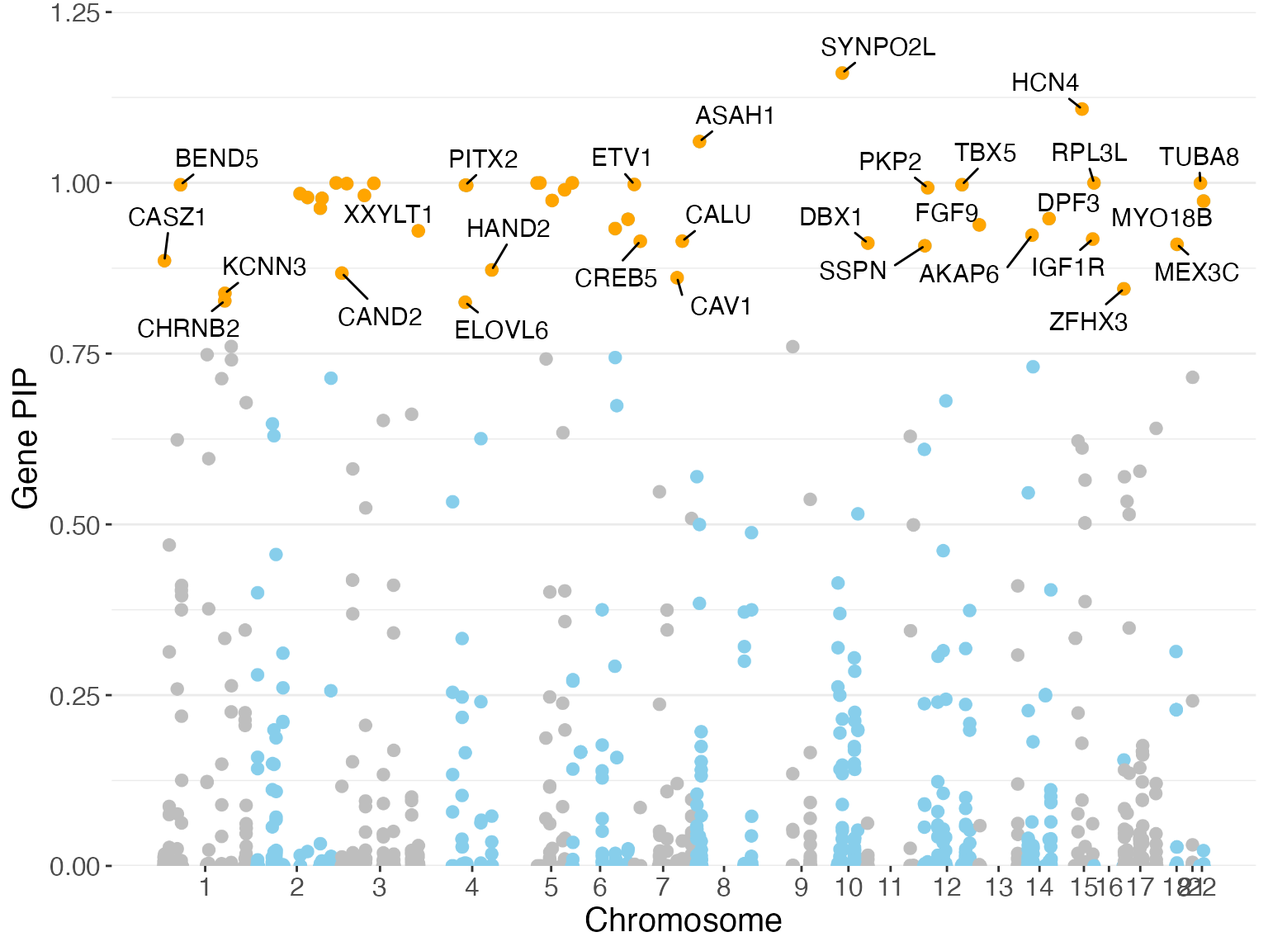
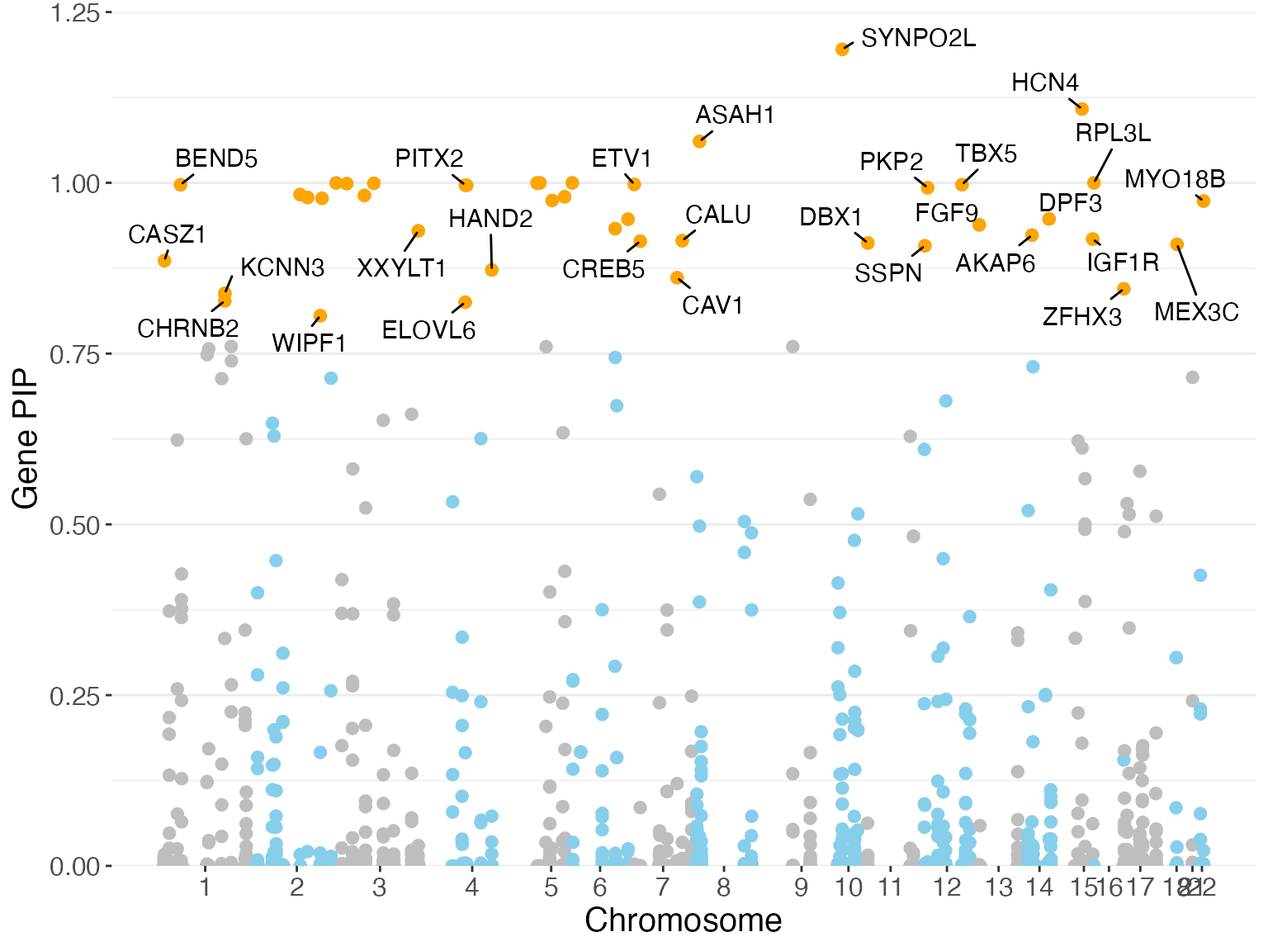
updated website

diff --git a/docs/articles/gene_mapping_tutorial.html b/docs/articles/gene_mapping_tutorial.html
@@ -33,7 +33,7 @@
       </button>
       <span class="navbar-brand">
         <a class="navbar-link" href="../index.html">mapgen</a>
-        <span class="version label label-default" data-toggle="tooltip" data-placement="bottom" title="">0.3.8</span>
+        <span class="version label label-default" data-toggle="tooltip" data-placement="bottom" title="">0.3.9</span>
       </span>
     </div>
 
@@ -155,44 +155,33 @@ Schematic of gene-level PIP calculation. s: SNP, g: gene
 <div class="sourceCode" id="cb6"><pre class="downlit sourceCode r">
 <code class="sourceCode R"><span class="va">genomic.annots</span> <span class="op">&lt;-</span> <span class="fu"><a href="https://rdrr.io/r/base/readRDS.html" class="external-link">readRDS</a></span><span class="op">(</span><span class="fu"><a href="https://rdrr.io/r/base/system.file.html" class="external-link">system.file</a></span><span class="op">(</span><span class="st">"extdata"</span>, <span class="st">"genomic.annots.hg19.gr.rds"</span>, package <span class="op">=</span> <span class="st">"mapgen"</span><span class="op">)</span><span class="op">)</span>
 <span class="va">gene.annots</span> <span class="op">&lt;-</span> <span class="va">genomic.annots</span><span class="op">$</span><span class="va">genes</span></code></pre></div>
-<p>Add Promoter-capture HiC (PCHi-C) data from iPSC derived cardiomyocytes (CMs). You can use your own pcHiC data, or skip this if you do not have relevant PCHi-C data.</p>
+<p>Load OCRs</p>
 <div class="sourceCode" id="cb7"><pre class="downlit sourceCode r">
-<code class="sourceCode R"><span class="va">genomic.annots</span><span class="op">$</span><span class="va">pcHiC</span> <span class="op">&lt;-</span> <span class="fu"><a href="https://rdrr.io/r/base/readRDS.html" class="external-link">readRDS</a></span><span class="op">(</span><span class="fu"><a href="https://rdrr.io/r/base/system.file.html" class="external-link">system.file</a></span><span class="op">(</span><span class="st">"extdata"</span>, <span class="st">"pcHiC.CM.gr.rds"</span>, package <span class="op">=</span> <span class="st">"mapgen"</span><span class="op">)</span><span class="op">)</span></code></pre></div>
-<p>Add ABC scores from heart ventricle (from Nasser <em>et al.</em> <em>Nature</em> 2021). You may skip this if you do not have relevant ABC scores.</p>
+<code class="sourceCode R"><span class="va">genomic.annots</span><span class="op">$</span><span class="va">OCRs_hg19</span> <span class="op">&lt;-</span> <span class="fu"><a href="https://rdrr.io/r/base/readRDS.html" class="external-link">readRDS</a></span><span class="op">(</span><span class="fu"><a href="https://rdrr.io/r/base/system.file.html" class="external-link">system.file</a></span><span class="op">(</span><span class="st">"extdata"</span>, <span class="st">"OCRs.hg19.gr.rds"</span>, package <span class="op">=</span> <span class="st">"mapgen"</span><span class="op">)</span><span class="op">)</span></code></pre></div>
+<p>Define active promoters using OCRs.</p>
 <div class="sourceCode" id="cb8"><pre class="downlit sourceCode r">
+<code class="sourceCode R"><span class="va">genomic.annots</span><span class="op">$</span><span class="va">active_promoters</span> <span class="op">&lt;-</span> <span class="fu">IRanges</span><span class="fu">::</span><span class="fu"><a href="https://rdrr.io/pkg/IRanges/man/findOverlaps-methods.html" class="external-link">subsetByOverlaps</a></span><span class="op">(</span><span class="va">genomic.annots</span><span class="op">$</span><span class="va">promoters</span>, <span class="va">genomic.annots</span><span class="op">$</span><span class="va">OCRs_hg19</span>, minoverlap <span class="op">=</span> <span class="fl">100</span><span class="op">)</span></code></pre></div>
+<p>Define enhancer loops:</p>
+<p>Add Promoter-capture HiC (PCHi-C) data from iPSC derived cardiomyocytes (CMs).</p>
+<div class="sourceCode" id="cb9"><pre class="downlit sourceCode r">
+<code class="sourceCode R"><span class="va">genomic.annots</span><span class="op">$</span><span class="va">pcHiC</span> <span class="op">&lt;-</span> <span class="fu"><a href="https://rdrr.io/r/base/readRDS.html" class="external-link">readRDS</a></span><span class="op">(</span><span class="fu"><a href="https://rdrr.io/r/base/system.file.html" class="external-link">system.file</a></span><span class="op">(</span><span class="st">"extdata"</span>, <span class="st">"pcHiC.CM.gr.rds"</span>, package <span class="op">=</span> <span class="st">"mapgen"</span><span class="op">)</span><span class="op">)</span></code></pre></div>
+<p>You can use your own pcHiC data as follows, or skip this if you do not have relevant PCHi-C data.</p>
+<div class="sourceCode" id="cb10"><pre class="downlit sourceCode r">
+<code class="sourceCode R"><span class="va">evapcHiC</span> <span class="op">&lt;-</span> <span class="fu">data.table</span><span class="fu">::</span><span class="fu"><a href="https://Rdatatable.gitlab.io/data.table/reference/fread.html" class="external-link">fread</a></span><span class="op">(</span><span class="va">pcHiC.file</span><span class="op">)</span>
+<span class="va">pcHiC.gr</span> <span class="op">&lt;-</span> <span class="fu"><a href="../reference/process_pcHiC.html">process_pcHiC</a></span><span class="op">(</span><span class="va">pcHiC</span><span class="op">)</span>
+<span class="va">pcHiC.gr</span> <span class="op">&lt;-</span> <span class="va">pcHiC.gr</span><span class="op">[</span><span class="va">pcHiC.gr</span><span class="op">$</span><span class="va">gene_name</span> <span class="op"><a href="https://rdrr.io/pkg/BiocGenerics/man/match.html" class="external-link">%in%</a></span> <span class="va">gene.annots</span><span class="op">$</span><span class="va">gene_name</span>,<span class="op">]</span> <span class="co"># restrict to protein coding genes</span>
+<span class="va">genomic.annots</span><span class="op">$</span><span class="va">pcHiC</span> <span class="op">&lt;-</span> <span class="va">pcHiC.gr</span></code></pre></div>
+<p>Add ABC scores from heart ventricle (from Nasser <em>et al.</em> <em>Nature</em> 2021). You may skip this if you do not have relevant ABC scores.</p>
+<div class="sourceCode" id="cb11"><pre class="downlit sourceCode r">
 <code class="sourceCode R"><span class="va">ABC</span> <span class="op">&lt;-</span> <span class="fu">data.table</span><span class="fu">::</span><span class="fu"><a href="https://Rdatatable.gitlab.io/data.table/reference/fread.html" class="external-link">fread</a></span><span class="op">(</span><span class="fu"><a href="https://rdrr.io/r/base/system.file.html" class="external-link">system.file</a></span><span class="op">(</span><span class="st">"extdata"</span>, <span class="st">"heart_ventricle-ENCODE_ABC.tsv.gz"</span>, package <span class="op">=</span> <span class="st">"mapgen"</span><span class="op">)</span><span class="op">)</span>
 <span class="va">ABC.gr</span> <span class="op">&lt;-</span> <span class="fu"><a href="../reference/process_ABC.html">process_ABC</a></span><span class="op">(</span><span class="va">ABC</span>, ABC.thresh <span class="op">=</span> <span class="fl">0.015</span>, full.element <span class="op">=</span> <span class="cn">TRUE</span><span class="op">)</span>
 <span class="va">ABC.gr</span> <span class="op">&lt;-</span> <span class="va">ABC.gr</span><span class="op">[</span><span class="va">ABC.gr</span><span class="op">$</span><span class="va">gene_name</span> <span class="op"><a href="https://rdrr.io/pkg/BiocGenerics/man/match.html" class="external-link">%in%</a></span> <span class="va">gene.annots</span><span class="op">$</span><span class="va">gene_name</span>, <span class="op">]</span> <span class="co"># restrict to protein coding genes</span>
 <span class="va">genomic.annots</span><span class="op">$</span><span class="va">ABC</span> <span class="op">&lt;-</span> <span class="va">ABC.gr</span></code></pre></div>
-<p>Define active promoters using OCRs.</p>
-<div class="sourceCode" id="cb9"><pre class="downlit sourceCode r">
-<code class="sourceCode R"><span class="va">genomic.annots</span><span class="op">$</span><span class="va">OCRs_hg19</span> <span class="op">&lt;-</span> <span class="fu"><a href="https://rdrr.io/r/base/readRDS.html" class="external-link">readRDS</a></span><span class="op">(</span><span class="fu"><a href="https://rdrr.io/r/base/system.file.html" class="external-link">system.file</a></span><span class="op">(</span><span class="st">"extdata"</span>, <span class="st">"OCRs.hg19.gr.rds"</span>, package <span class="op">=</span> <span class="st">"mapgen"</span><span class="op">)</span><span class="op">)</span>
-<span class="va">genomic.annots</span><span class="op">$</span><span class="va">active_promoters</span> <span class="op">&lt;-</span> <span class="fu">IRanges</span><span class="fu">::</span><span class="fu"><a href="https://rdrr.io/pkg/IRanges/man/findOverlaps-methods.html" class="external-link">subsetByOverlaps</a></span><span class="op">(</span><span class="va">genomic.annots</span><span class="op">$</span><span class="va">promoters</span>, <span class="va">genomic.annots</span><span class="op">$</span><span class="va">OCRs_hg19</span>, minoverlap <span class="op">=</span> <span class="fl">100</span><span class="op">)</span></code></pre></div>
-<p>Define enhancer loops:</p>
-<p>We used “enhancer loops” from Activity-By-Contact (ABC) scores and promoter-capture HiC data (PC-HiC).</p>
-<p>Considering the fact that Hi-C and PC-HiC may miss contacts between close regions due to technical reasons, we also consider the OCRs within 20 kb of active promoters as “enhancer loops”.</p>
-<div class="sourceCode" id="cb10"><pre class="downlit sourceCode r">
-<code class="sourceCode R"><span class="va">genomic.annots</span><span class="op">$</span><span class="va">enhancer_nearby_promoter_20kb</span> <span class="op">&lt;-</span> <span class="fu"><a href="https://rdrr.io/r/base/readRDS.html" class="external-link">readRDS</a></span><span class="op">(</span><span class="fu"><a href="https://rdrr.io/r/base/system.file.html" class="external-link">system.file</a></span><span class="op">(</span><span class="st">"extdata"</span>, <span class="st">"enhancer.nearby.promoter.20kb.gr.rds"</span>, package <span class="op">=</span> <span class="st">"mapgen"</span><span class="op">)</span><span class="op">)</span></code></pre></div>
-<p>Define enhancer regions by OCRs (you may skip this if you do not have relevant enhancer data)</p>
-<div class="sourceCode" id="cb11"><pre class="downlit sourceCode r">
-<code class="sourceCode R"><span class="va">genomic.annots</span><span class="op">$</span><span class="va">enhancer_regions</span> <span class="op">&lt;-</span> <span class="va">genomic.annots</span><span class="op">$</span><span class="va">OCRs_hg19</span></code></pre></div>
-<p>Let’s look at all the annotation categories we included here:</p>
+<p>Considering the fact that Hi-C and PC-HiC may miss contacts between close regions due to technical reasons, we also consider enhancer regions (the OCRs in this case) within 20 kb of active promoters as “enhancer loops”.</p>
 <div class="sourceCode" id="cb12"><pre class="downlit sourceCode r">
-<code class="sourceCode R"><span class="fu"><a href="https://rdrr.io/r/base/summary.html" class="external-link">summary</a></span><span class="op">(</span><span class="va">genomic.annots</span><span class="op">)</span></code></pre></div>
-<pre><code><span class="co">##                               Length Class   Mode</span>
-<span class="co">## exons                         195913 GRanges S4  </span>
-<span class="co">## introns                       189762 GRanges S4  </span>
-<span class="co">## UTRs                           50889 GRanges S4  </span>
-<span class="co">## promoters                      19430 GRanges S4  </span>
-<span class="co">## splice_junctions              391826 GRanges S4  </span>
-<span class="co">## HiC                           377504 GRanges S4  </span>
-<span class="co">## genes                          19430 GRanges S4  </span>
-<span class="co">## pcHiC                         377504 GRanges S4  </span>
-<span class="co">## ABC                            48102 GRanges S4  </span>
-<span class="co">## OCRs_hg19                     353731 GRanges S4  </span>
-<span class="co">## active_promoters               14029 GRanges S4  </span>
-<span class="co">## enhancer_nearby_promoter_20kb 124947 GRanges S4  </span>
-<span class="co">## enhancer_regions              353731 GRanges S4</span></code></pre>
+<code class="sourceCode R"><span class="va">genomic.annots</span><span class="op">$</span><span class="va">enhancer_regions</span> <span class="op">&lt;-</span> <span class="va">genomic.annots</span><span class="op">$</span><span class="va">OCRs_hg19</span><span class="op">[</span><span class="va">genomic.annots</span><span class="op">$</span><span class="va">OCRs_hg19</span><span class="op">$</span><span class="va">peakType</span><span class="op">!=</span><span class="st">"Promoter"</span>,<span class="op">]</span></code></pre></div>
+<div class="sourceCode" id="cb13"><pre class="downlit sourceCode r">
+<code class="sourceCode R"><span class="va">enhancer_nearby_promoter_20kb</span> <span class="op">&lt;-</span> <span class="fu"><a href="../reference/nearby_interactions.html">nearby_interactions</a></span><span class="op">(</span><span class="va">genomic.annots</span><span class="op">$</span><span class="va">enhancer_regions</span>, <span class="va">genomic.annots</span><span class="op">$</span><span class="va">active_promoters</span>, dist_limit <span class="op">=</span> <span class="fl">20000</span><span class="op">)</span></code></pre></div>
 </div>
 <div class="section level2">
 <h2 id="run-gene-mapping">Run gene mapping<a class="anchor" aria-label="anchor" href="#run-gene-mapping"></a>
@@ -228,13 +217,13 @@ Schematic of gene-level PIP calculation. s: SNP, g: gene
 <span class="co">## 4 rs4845618   1 154400015 1.149990e-05 10.16240 -6.537313  0    77      IL6R</span>
 <span class="co">## 5 rs6687726   1 154400320 1.392576e-05 10.29390 -6.567164  0    77      IL6R</span>
 <span class="co">## 6 rs2793374   1 205647508 1.950893e-04  4.70421  4.268657  0   106   SLC45A3</span>
-<span class="co">##         category weight  frac_pip     gene_pip</span>
-<span class="co">## 1 ABC,nearby20kb      1 0.3333333 4.697451e-01</span>
-<span class="co">## 2            ABC      1 0.3333333 2.130613e-02</span>
-<span class="co">## 3            ABC      1 1.0000000 7.609475e-02</span>
-<span class="co">## 4            ABC      1 1.0000000 3.297559e-05</span>
-<span class="co">## 5            ABC      1 0.5000000 3.297559e-05</span>
-<span class="co">## 6            ABC      1 1.0000000 4.722192e-02</span></code></pre>
+<span class="co">##   category weight  frac_pip     gene_pip</span>
+<span class="co">## 1      ABC      1 0.3333333 3.731341e-01</span>
+<span class="co">## 2      ABC      1 0.3333333 2.591496e-02</span>
+<span class="co">## 3      ABC      1 1.0000000 7.609949e-02</span>
+<span class="co">## 4      ABC      1 1.0000000 3.297559e-05</span>
+<span class="co">## 5      ABC      1 0.5000000 3.297559e-05</span>
+<span class="co">## 6      ABC      1 1.0000000 4.721804e-02</span></code></pre>
 <p>Extract gene-level result table</p>
 <div class="sourceCode" id="cb18"><pre class="downlit sourceCode r">
 <code class="sourceCode R"><span class="va">gene.pip.res</span> <span class="op">&lt;-</span> <span class="fu"><a href="../reference/extract_gene_level_result.html">extract_gene_level_result</a></span><span class="op">(</span><span class="va">gene.mapping.res</span>, <span class="va">gene.annots</span><span class="op">)</span></code></pre></div>
@@ -242,12 +231,12 @@ Schematic of gene-level PIP calculation. s: SNP, g: gene
 <div class="sourceCode" id="cb20"><pre class="downlit sourceCode r">
 <code class="sourceCode R"><span class="fu"><a href="https://rdrr.io/pkg/S4Vectors/man/Vector-class.html" class="external-link">head</a></span><span class="op">(</span><span class="va">gene.pip.res</span><span class="op">)</span></code></pre></div>
 <pre><code><span class="co">##    chr       pos gene_name     gene_pip</span>
-<span class="co">## 1 chr1  22263790     HSPG2 4.697451e-01</span>
-<span class="co">## 2 chr1  22110099     USP48 2.130613e-02</span>
-<span class="co">## 3 chr1  41707826     SCMH1 7.609475e-02</span>
+<span class="co">## 1 chr1  22263790     HSPG2 3.731341e-01</span>
+<span class="co">## 2 chr1  22110099     USP48 2.591496e-02</span>
+<span class="co">## 3 chr1  41707826     SCMH1 7.609949e-02</span>
 <span class="co">## 4 chr1 154377669      IL6R 3.297559e-05</span>
-<span class="co">## 5 chr1 205649587   SLC45A3 4.722192e-02</span>
-<span class="co">## 6 chr1 205719404    NUCKS1 6.782052e-01</span></code></pre>
+<span class="co">## 5 chr1 205649587   SLC45A3 4.721804e-02</span>
+<span class="co">## 6 chr1 205719404    NUCKS1 6.253132e-01</span></code></pre>
 <p>Obtain 80% credible gene sets</p>
 <div class="sourceCode" id="cb22"><pre class="downlit sourceCode r">
 <code class="sourceCode R"><span class="va">gene.cs.df</span> <span class="op">&lt;-</span> <span class="fu"><a href="../reference/gene_cs.html">gene_cs</a></span><span class="op">(</span><span class="va">gene.mapping.res</span>, by.locus <span class="op">=</span> <span class="cn">TRUE</span>, gene.cs.percent.thresh <span class="op">=</span> <span class="fl">0.8</span><span class="op">)</span>
@@ -256,11 +245,11 @@ Schematic of gene-level PIP calculation. s: SNP, g: gene
 <span class="co">##   locus gene_cs          gene_cs_locus_p… top_gene top_locus_gene_… top_gene_pip</span>
 <span class="co">##   <span style="color: #949494; font-style: italic;">&lt;dbl&gt;</span> <span style="color: #949494; font-style: italic;">&lt;chr&gt;</span>            <span style="color: #949494; font-style: italic;">&lt;chr&gt;</span>            <span style="color: #949494; font-style: italic;">&lt;chr&gt;</span>               <span style="color: #949494; font-style: italic;">&lt;dbl&gt;</span>        <span style="color: #949494; font-style: italic;">&lt;dbl&gt;</span></span>
 <span class="co">## <span style="color: #BCBCBC;">1</span>     7 CASZ1            CASZ1(0.886)     CASZ1               0.886        0.886</span>
-<span class="co">## <span style="color: #BCBCBC;">2</span>    15 HSPG2,CELA3B,LD… HSPG2(0.47),CEL… HSPG2               0.470        0.470</span>
+<span class="co">## <span style="color: #BCBCBC;">2</span>    15 HSPG2,CELA3B,LD… HSPG2(0.373),CE… HSPG2               0.373        0.373</span>
 <span class="co">## <span style="color: #BCBCBC;">3</span>    25 SLFNL1,CTPS1     SLFNL1(0.624),C… SLFNL1              0.624        0.624</span>
 <span class="co">## <span style="color: #BCBCBC;">4</span>    31 BEND5            BEND5(0.997)     BEND5               0.997        0.997</span>
-<span class="co">## <span style="color: #BCBCBC;">5</span>    32 FAF1,CDKN2C,C1o… FAF1(0.382),CDK… FAF1                0.382        0.403</span>
-<span class="co">## <span style="color: #BCBCBC;">6</span>    33 TTC39A,EPS15     TTC39A(0.409),E… TTC39A              0.409        0.411</span></code></pre>
+<span class="co">## <span style="color: #BCBCBC;">5</span>    32 FAF1,CDKN2C,C1o… FAF1(0.368),CDK… FAF1                0.368        0.390</span>
+<span class="co">## <span style="color: #BCBCBC;">6</span>    33 TTC39A,EPS15     TTC39A(0.425),E… TTC39A              0.425        0.427</span></code></pre>
 <p>Find the nearest gene for the top SNP in each locus</p>
 <div class="sourceCode" id="cb24"><pre class="downlit sourceCode r">
 <code class="sourceCode R"><span class="va">finemapstats.gr</span> <span class="op">&lt;-</span> <span class="va">finemapstats.gr</span><span class="op">[</span><span class="fu"><a href="https://Rdatatable.gitlab.io/data.table/reference/setorder.html" class="external-link">order</a></span><span class="op">(</span><span class="fu"><a href="https://rdrr.io/r/base/MathFun.html" class="external-link">abs</a></span><span class="op">(</span><span class="va">finemapstats.gr</span><span class="op">$</span><span class="va">zscore</span><span class="op">)</span>, decreasing <span class="op">=</span> <span class="cn">TRUE</span><span class="op">)</span>, <span class="op">]</span>

diff --git a/docs/reference/nearby_interactions.html b/docs/reference/nearby_interactions.html
@@ -1,0 +1,103 @@
+<!DOCTYPE html>
+<!-- Generated by pkgdown: do not edit by hand --><html lang="en"><head><meta http-equiv="Content-Type" content="text/html; charset=UTF-8"><meta charset="utf-8"><meta http-equiv="X-UA-Compatible" content="IE=edge"><meta name="viewport" content="width=device-width, initial-scale=1.0"><title>Get nearby interactions for enhancer regions near active promoters — nearby_interactions • mapgen</title><!-- jquery --><script src="https://cdnjs.cloudflare.com/ajax/libs/jquery/3.4.1/jquery.min.js" integrity="sha256-CSXorXvZcTkaix6Yvo6HppcZGetbYMGWSFlBw8HfCJo=" crossorigin="anonymous"></script><!-- Bootstrap --><link rel="stylesheet" href="https://cdnjs.cloudflare.com/ajax/libs/twitter-bootstrap/3.4.1/css/bootstrap.min.css" integrity="sha256-bZLfwXAP04zRMK2BjiO8iu9pf4FbLqX6zitd+tIvLhE=" crossorigin="anonymous"><script src="https://cdnjs.cloudflare.com/ajax/libs/twitter-bootstrap/3.4.1/js/bootstrap.min.js" integrity="sha256-nuL8/2cJ5NDSSwnKD8VqreErSWHtnEP9E7AySL+1ev4=" crossorigin="anonymous"></script><!-- bootstrap-toc --><link rel="stylesheet" href="../bootstrap-toc.css"><script src="../bootstrap-toc.js"></script><!-- Font Awesome icons --><link rel="stylesheet" href="https://cdnjs.cloudflare.com/ajax/libs/font-awesome/5.12.1/css/all.min.css" integrity="sha256-mmgLkCYLUQbXn0B1SRqzHar6dCnv9oZFPEC1g1cwlkk=" crossorigin="anonymous"><link rel="stylesheet" href="https://cdnjs.cloudflare.com/ajax/libs/font-awesome/5.12.1/css/v4-shims.min.css" integrity="sha256-wZjR52fzng1pJHwx4aV2AO3yyTOXrcDW7jBpJtTwVxw=" crossorigin="anonymous"><!-- clipboard.js --><script src="https://cdnjs.cloudflare.com/ajax/libs/clipboard.js/2.0.6/clipboard.min.js" integrity="sha256-inc5kl9MA1hkeYUt+EC3BhlIgyp/2jDIyBLS6k3UxPI=" crossorigin="anonymous"></script><!-- headroom.js --><script src="https://cdnjs.cloudflare.com/ajax/libs/headroom/0.11.0/headroom.min.js" integrity="sha256-AsUX4SJE1+yuDu5+mAVzJbuYNPHj/WroHuZ8Ir/CkE0=" crossorigin="anonymous"></script><script src="https://cdnjs.cloudflare.com/ajax/libs/headroom/0.11.0/jQuery.headroom.min.js" integrity="sha256-ZX/yNShbjqsohH1k95liqY9Gd8uOiE1S4vZc+9KQ1K4=" crossorigin="anonymous"></script><!-- pkgdown --><link href="../pkgdown.css" rel="stylesheet"><script src="../pkgdown.js"></script><meta property="og:title" content="Get nearby interactions for enhancer regions near active promoters — nearby_interactions"><meta property="og:description" content="Get nearby interactions for enhancer regions near active promoters"><!-- mathjax --><script src="https://cdnjs.cloudflare.com/ajax/libs/mathjax/2.7.5/MathJax.js" integrity="sha256-nvJJv9wWKEm88qvoQl9ekL2J+k/RWIsaSScxxlsrv8k=" crossorigin="anonymous"></script><script src="https://cdnjs.cloudflare.com/ajax/libs/mathjax/2.7.5/config/TeX-AMS-MML_HTMLorMML.js" integrity="sha256-84DKXVJXs0/F8OTMzX4UR909+jtl4G7SPypPavF+GfA=" crossorigin="anonymous"></script><!--[if lt IE 9]>
+<script src="https://oss.maxcdn.com/html5shiv/3.7.3/html5shiv.min.js"></script>
+<script src="https://oss.maxcdn.com/respond/1.4.2/respond.min.js"></script>
+<![endif]--></head><body data-spy="scroll" data-target="#toc">
+    
+
+    <div class="container template-reference-topic">
+      <header><div class="navbar navbar-default navbar-fixed-top" role="navigation">
+  <div class="container">
+    <div class="navbar-header">
+      <button type="button" class="navbar-toggle collapsed" data-toggle="collapse" data-target="#navbar" aria-expanded="false">
+        <span class="sr-only">Toggle navigation</span>
+        <span class="icon-bar"></span>
+        <span class="icon-bar"></span>
+        <span class="icon-bar"></span>
+      </button>
+      <span class="navbar-brand">
+        <a class="navbar-link" href="../index.html">mapgen</a>
+        <span class="version label label-default" data-toggle="tooltip" data-placement="bottom" title="">0.3.9</span>
+      </span>
+    </div>
+
+    <div id="navbar" class="navbar-collapse collapse">
+      <ul class="nav navbar-nav"><li>
+  <a href="../reference/index.html">Reference</a>
+</li>
+<li class="dropdown">
+  <a href="#" class="dropdown-toggle" data-toggle="dropdown" role="button" data-bs-toggle="dropdown" aria-expanded="false">
+    Tutorials
+     
+    <span class="caret"></span>
+  </a>
+  <ul class="dropdown-menu" role="menu"><li>
+      <a href="../articles/enrichment_finemapping_tutorial.html">Functional enrichment and fine-mapping</a>
+    </li>
+    <li>
+      <a href="../articles/partition_pip_tutorial.html">Partition fine-mapping PIPs by annotation categories</a>
+    </li>
+    <li>
+      <a href="../articles/gene_mapping_tutorial.html">Gene mapping</a>
+    </li>
+  </ul></li>
+      </ul><ul class="nav navbar-nav navbar-right"></ul></div><!--/.nav-collapse -->
+  </div><!--/.container -->
+</div><!--/.navbar -->
+
+      
+
+      </header><div class="row">
+  <div class="col-md-9 contents">
+    <div class="page-header">
+    <h1>Get nearby interactions for enhancer regions near active promoters</h1>
+    
+    <div class="hidden name"><code>nearby_interactions.Rd</code></div>
+    </div>
+
+    <div class="ref-description">
+    <p>Get nearby interactions for enhancer regions near active promoters</p>
+    </div>
+
+    <div id="ref-usage">
+    <div class="sourceCode"><pre class="sourceCode r"><code><span class="fu">nearby_interactions</span><span class="op">(</span>
+  <span class="va">enhancer_regions.gr</span>,
+  <span class="va">active_promoters.gr</span>,
+  dist_limit <span class="op">=</span> <span class="fl">20000</span>
+<span class="op">)</span></code></pre></div>
+    </div>
+
+    <div id="arguments">
+    <h2>Arguments</h2>
+    <dl><dt>enhancer_regions.gr</dt>
+<dd><p>GRanges object of enhancer regions</p></dd>
+<dt>active_promoters.gr</dt>
+<dd><p>GRanges object of active promoters</p></dd>
+<dt>dist_limit</dt>
+<dd><p>Distance limit (default: 20,000)</p></dd>
+</dl></div>
+
+  </div>
+  <div class="col-md-3 hidden-xs hidden-sm" id="pkgdown-sidebar">
+    <nav id="toc" data-toggle="toc" class="sticky-top"><h2 data-toc-skip>Contents</h2>
+    </nav></div>
+</div>
+
+
+      <footer><div class="copyright">
+  <p></p><p>Developed by Kaixuan Luo, Alan Selewa, Sebastian Pott, Xin He.</p>
+</div>
+
+<div class="pkgdown">
+  <p></p><p>Site built with <a href="https://pkgdown.r-lib.org/" class="external-link">pkgdown</a> 2.0.2.</p>
+</div>
+
+      </footer></div>
+
+  
+
+
+  
+
+  </body></html>
+

diff --git a/docs/reference/index.html b/docs/reference/index.html
@@ -17,7 +17,7 @@
       </button>
       <span class="navbar-brand">
         <a class="navbar-link" href="../index.html">mapgen</a>
-        <span class="version label label-default" data-toggle="tooltip" data-placement="bottom" title="">0.3.8</span>
+        <span class="version label label-default" data-toggle="tooltip" data-placement="bottom" title="">0.3.9</span>
       </span>
     </div>
 
@@ -121,6 +121,10 @@
           <p><code><a href="merge_susie_sumstats.html">merge_susie_sumstats()</a></code> </p>
         </td>
         <td><p>merges SuSiE results with original summary statistics data frame</p></td>
+      </tr><tr><td>
+          <p><code><a href="nearby_interactions.html">nearby_interactions()</a></code> </p>
+        </td>
+        <td><p>Get nearby interactions for enhancer regions near active promoters</p></td>
       </tr><tr><td>
           <p><code><a href="partition_pip_regions.html">partition_pip_regions()</a></code> </p>
         </td>

diff --git a/docs/authors.html b/docs/authors.html
@@ -17,7 +17,7 @@
       </button>
       <span class="navbar-brand">
         <a class="navbar-link" href="index.html">mapgen</a>
-        <span class="version label label-default" data-toggle="tooltip" data-placement="bottom" title="">0.3.8</span>
+        <span class="version label label-default" data-toggle="tooltip" data-placement="bottom" title="">0.3.9</span>
       </span>
     </div>
 
@@ -82,13 +82,13 @@
 
     <p>Luo K, Selewa A, Pott S, He X (2022).
 <em>mapgen: Performs gene mapping based on functionally-informed genetic fine mapping</em>.
-R package version 0.3.8. 
+R package version 0.3.9. 
 </p>
     <pre>@Manual{,
   title = {mapgen: Performs gene mapping based on functionally-informed genetic fine mapping},
   author = {Kaixuan Luo and Alan Selewa and Sebastian Pott and Xin He},
   year = {2022},
-  note = {R package version 0.3.8},
+  note = {R package version 0.3.9},
 }</pre>
 
   </div>

diff --git a/docs/reference/compile_structure_plot_data.html b/docs/reference/compile_structure_plot_data.html
@@ -18,7 +18,7 @@ https://stephenslab.github.io/fastTopics/"><!-- mathjax --><script src="https://
       </button>
       <span class="navbar-brand">
         <a class="navbar-link" href="../index.html">mapgen</a>
-        <span class="version label label-default" data-toggle="tooltip" data-placement="bottom" title="">0.3.8</span>
+        <span class="version label label-default" data-toggle="tooltip" data-placement="bottom" title="">0.3.9</span>
       </span>
     </div>
 

diff --git a/docs/reference/merge_susie_sumstats.html b/docs/reference/merge_susie_sumstats.html
@@ -18,7 +18,7 @@ This function assumes L = 1. ONLY ONE CREDIBLE SET PER LOCUS!"><!-- mathjax --><
       </button>
       <span class="navbar-brand">
         <a class="navbar-link" href="../index.html">mapgen</a>
-        <span class="version label label-default" data-toggle="tooltip" data-placement="bottom" title="">0.3.8</span>
+        <span class="version label label-default" data-toggle="tooltip" data-placement="bottom" title="">0.3.9</span>
       </span>
     </div>
 

diff --git a/docs/reference/prepare_torus_input_files.html b/docs/reference/prepare_torus_input_files.html
@@ -18,7 +18,7 @@ z-score file and annotation file."><!-- mathjax --><script src="https://cdnjs.cl
       </button>
       <span class="navbar-brand">
         <a class="navbar-link" href="../index.html">mapgen</a>
-        <span class="version label label-default" data-toggle="tooltip" data-placement="bottom" title="">0.3.8</span>
+        <span class="version label label-default" data-toggle="tooltip" data-placement="bottom" title="">0.3.9</span>
       </span>
     </div>
 

diff --git a/docs/reference/run_torus.html b/docs/reference/run_torus.html
@@ -18,7 +18,7 @@ compute SNP-level priors using the enrichment estimates."><!-- mathjax --><scrip
       </button>
       <span class="navbar-brand">
         <a class="navbar-link" href="../index.html">mapgen</a>
-        <span class="version label label-default" data-toggle="tooltip" data-placement="bottom" title="">0.3.8</span>
+        <span class="version label label-default" data-toggle="tooltip" data-placement="bottom" title="">0.3.9</span>
       </span>
     </div>
 

diff --git a/docs/reference/structure_plot.html b/docs/reference/structure_plot.html
@@ -18,7 +18,7 @@ https://stephenslab.github.io/fastTopics/"><!-- mathjax --><script src="https://
       </button>
       <span class="navbar-brand">
         <a class="navbar-link" href="../index.html">mapgen</a>
-        <span class="version label label-default" data-toggle="tooltip" data-placement="bottom" title="">0.3.8</span>
+        <span class="version label label-default" data-toggle="tooltip" data-placement="bottom" title="">0.3.9</span>
       </span>
     </div>
 

diff --git a/docs/404.html b/docs/404.html
@@ -32,7 +32,7 @@
       </button>
       <span class="navbar-brand">
         <a class="navbar-link" href="https://kevinlkx.github.io/mapgen/index.html">mapgen</a>
-        <span class="version label label-default" data-toggle="tooltip" data-placement="bottom" title="">0.3.8</span>
+        <span class="version label label-default" data-toggle="tooltip" data-placement="bottom" title="">0.3.9</span>
       </span>
     </div>
 

diff --git a/docs/articles/enrichment_finemapping_tutorial.html b/docs/articles/enrichment_finemapping_tutorial.html
@@ -33,7 +33,7 @@
       </button>
       <span class="navbar-brand">
         <a class="navbar-link" href="../index.html">mapgen</a>
-        <span class="version label label-default" data-toggle="tooltip" data-placement="bottom" title="">0.3.8</span>
+        <span class="version label label-default" data-toggle="tooltip" data-placement="bottom" title="">0.3.9</span>
       </span>
     </div>
 

diff --git a/docs/articles/index.html b/docs/articles/index.html
@@ -17,7 +17,7 @@
       </button>
       <span class="navbar-brand">
         <a class="navbar-link" href="../index.html">mapgen</a>
-        <span class="version label label-default" data-toggle="tooltip" data-placement="bottom" title="">0.3.8</span>
+        <span class="version label label-default" data-toggle="tooltip" data-placement="bottom" title="">0.3.9</span>
       </span>
     </div>
 
